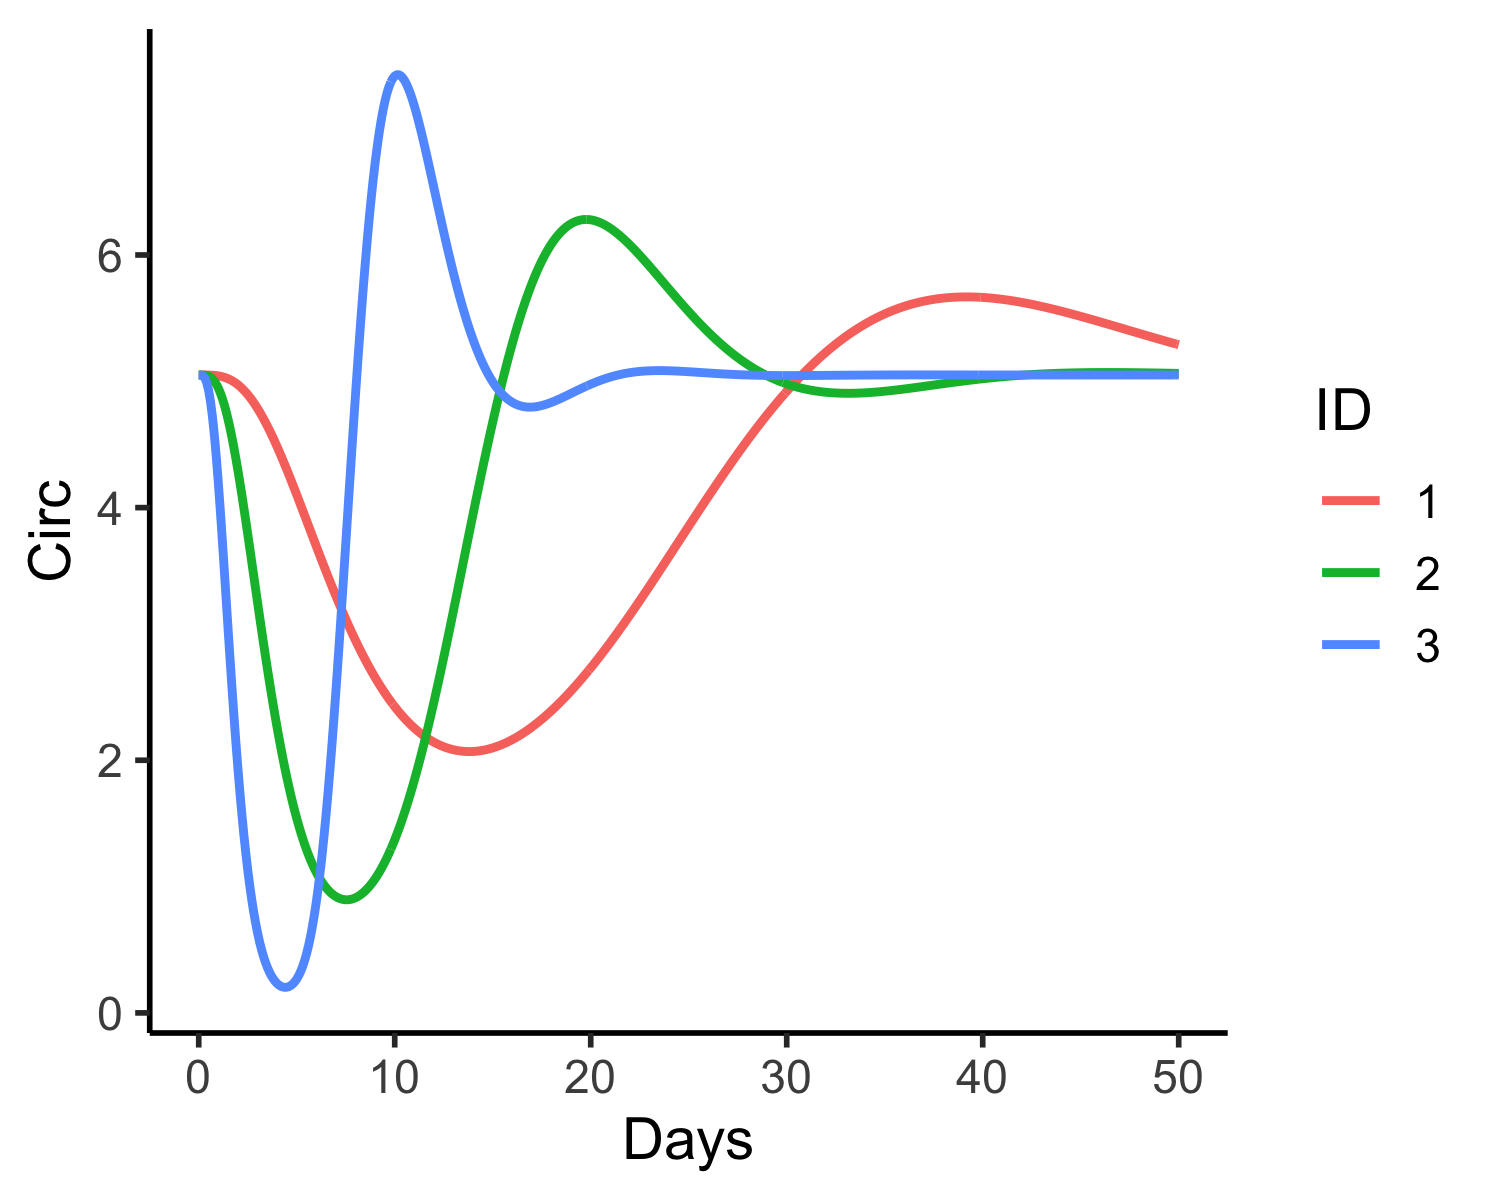
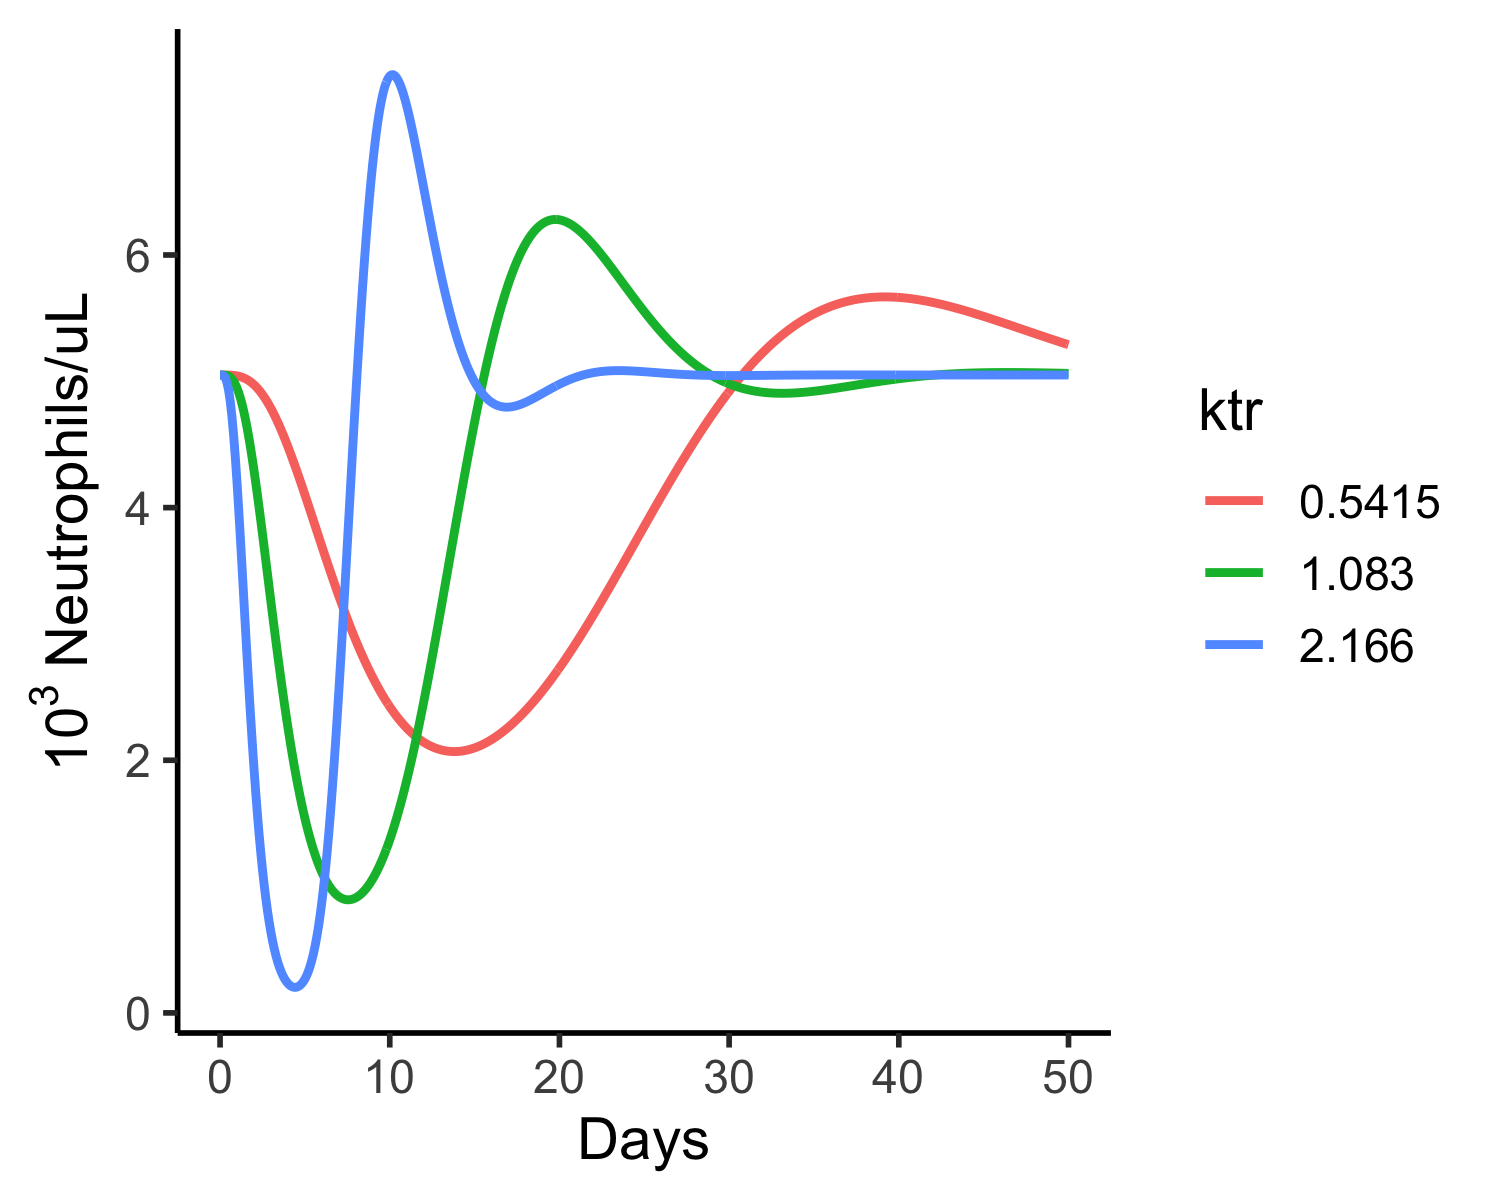
fix ID legend labels

diff --git a/myelo/README.md b/myelo/README.md
@@ -405,7 +405,9 @@ fixout=function(out) {
   d$ID=as_factor(d$ID)
   d
 }
-out%>%fixout%>%ggplot(aes(x=time,y=Circ,col=ID))+ geom_line(size=1)+gx+tc(14)
+lb=labs(col = "Circ0")
+scd = scale_color_discrete(name = "Circ0", labels = idata$Circ0)
+out%>%fixout%>%ggplot(aes(x=time,y=Circ,col=ID))+ geom_line(size=1)+gx+gy+tc(14)+lb+scd
 # ggsave("~/GitHubs/myelo/docs/circ0Sens.png",width=5, height=4)
 ```
 
@@ -415,8 +417,10 @@ out%>%fixout%>%ggplot(aes(x=time,y=Circ,col=ID))+ geom_line(size=1)+gx+tc(14)
 
 ```
 idata=data.frame(ID=1:3,ktr=1.083*span)
+lb=labs(col = "ktr")
+scd = scale_color_discrete(name = "ktr", labels = idata$ktr)
 out=mod%>%idata_set(idata)%>%ev(e)%>%mrgsim(start=0,end=END,delta=DELTA)
-out%>%fixout%>%ggplot(aes(x=time,y=Circ,col=ID))+ geom_line(size=1)+gx+tc(14)
+out%>%fixout%>%ggplot(aes(x=time,y=Circ,col=ID))+ geom_line(size=1)+gx+gy+tc(14)+lb+scd
 # ggsave("~/GitHubs/myelo/docs/ktrSens.png",width=5, height=4)
 ```
 
@@ -426,8 +430,10 @@ out%>%fixout%>%ggplot(aes(x=time,y=Circ,col=ID))+ geom_line(size=1)+gx+tc(14)
 
 ```
 idata=data.frame(ID=1:3,gam=0.161*span)
+lb=labs(col = "gam")
+scd = scale_color_discrete(name = "gam", labels = idata$gam)
 out=mod%>%idata_set(idata)%>%ev(e)%>%mrgsim(start=0,end=END,delta=DELTA)
-out%>%fixout%>%ggplot(aes(x=time,y=Circ,col=ID))+ geom_line(size=1)+gx+tc(14)
+out%>%fixout%>%ggplot(aes(x=time,y=Circ,col=ID))+ geom_line(size=1)+gx+gy+tc(14)+lb+scd
 # ggsave("~/GitHubs/myelo/docs/gamSens.png",width=5, height=4)
 ```
 
@@ -437,8 +443,10 @@ out%>%fixout%>%ggplot(aes(x=time,y=Circ,col=ID))+ geom_line(size=1)+gx+tc(14)
 
 ```
 idata=data.frame(ID=1:3,slope=8.58*span)
+lb=labs(col = "slope")
+scd = scale_color_discrete(name = "slope", labels = idata$slope)
 out=mod%>%idata_set(idata)%>%ev(e)%>%mrgsim(start=0,end=END,delta=DELTA)
-out%>%fixout%>%ggplot(aes(x=time,y=Circ,col=ID))+ geom_line(size=1)+gx+tc(14)
+out%>%fixout%>%ggplot(aes(x=time,y=Circ,col=ID))+ geom_line(size=1)+gx+gy+tc(14)+lb+scd
 # ggsave("~/GitHubs/myelo/docs/slopeSens.png",width=5, height=4)
 ```
 
